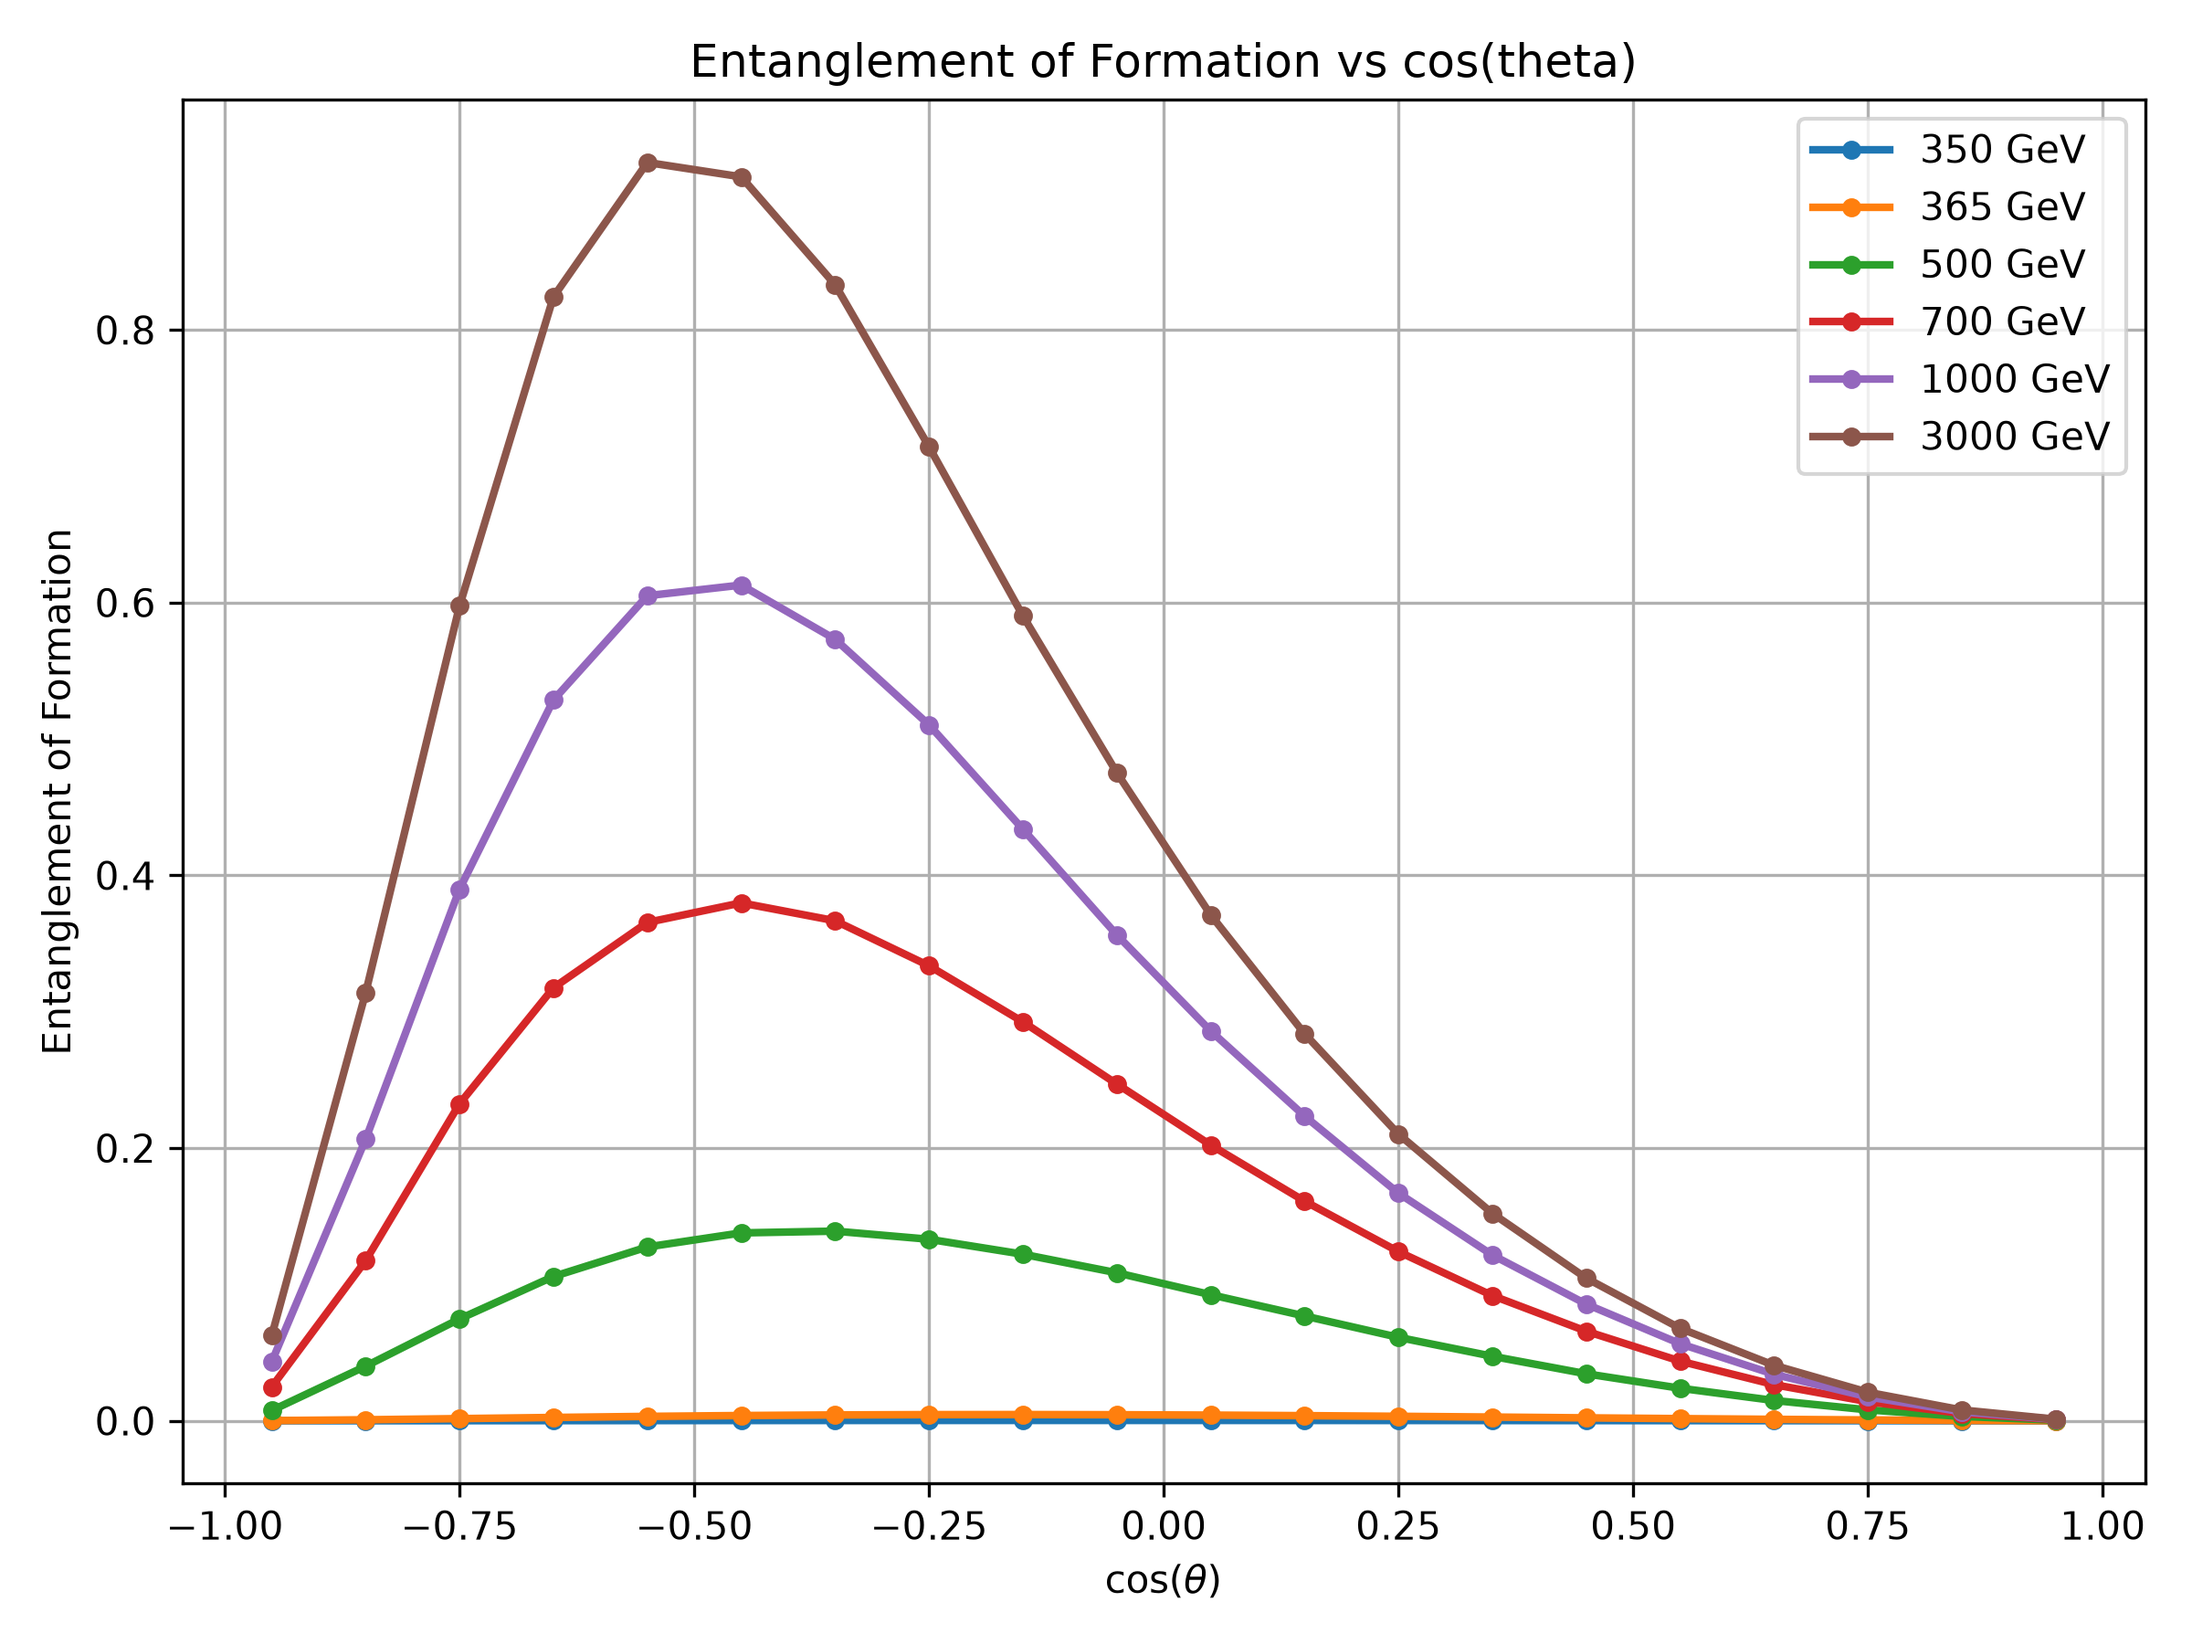
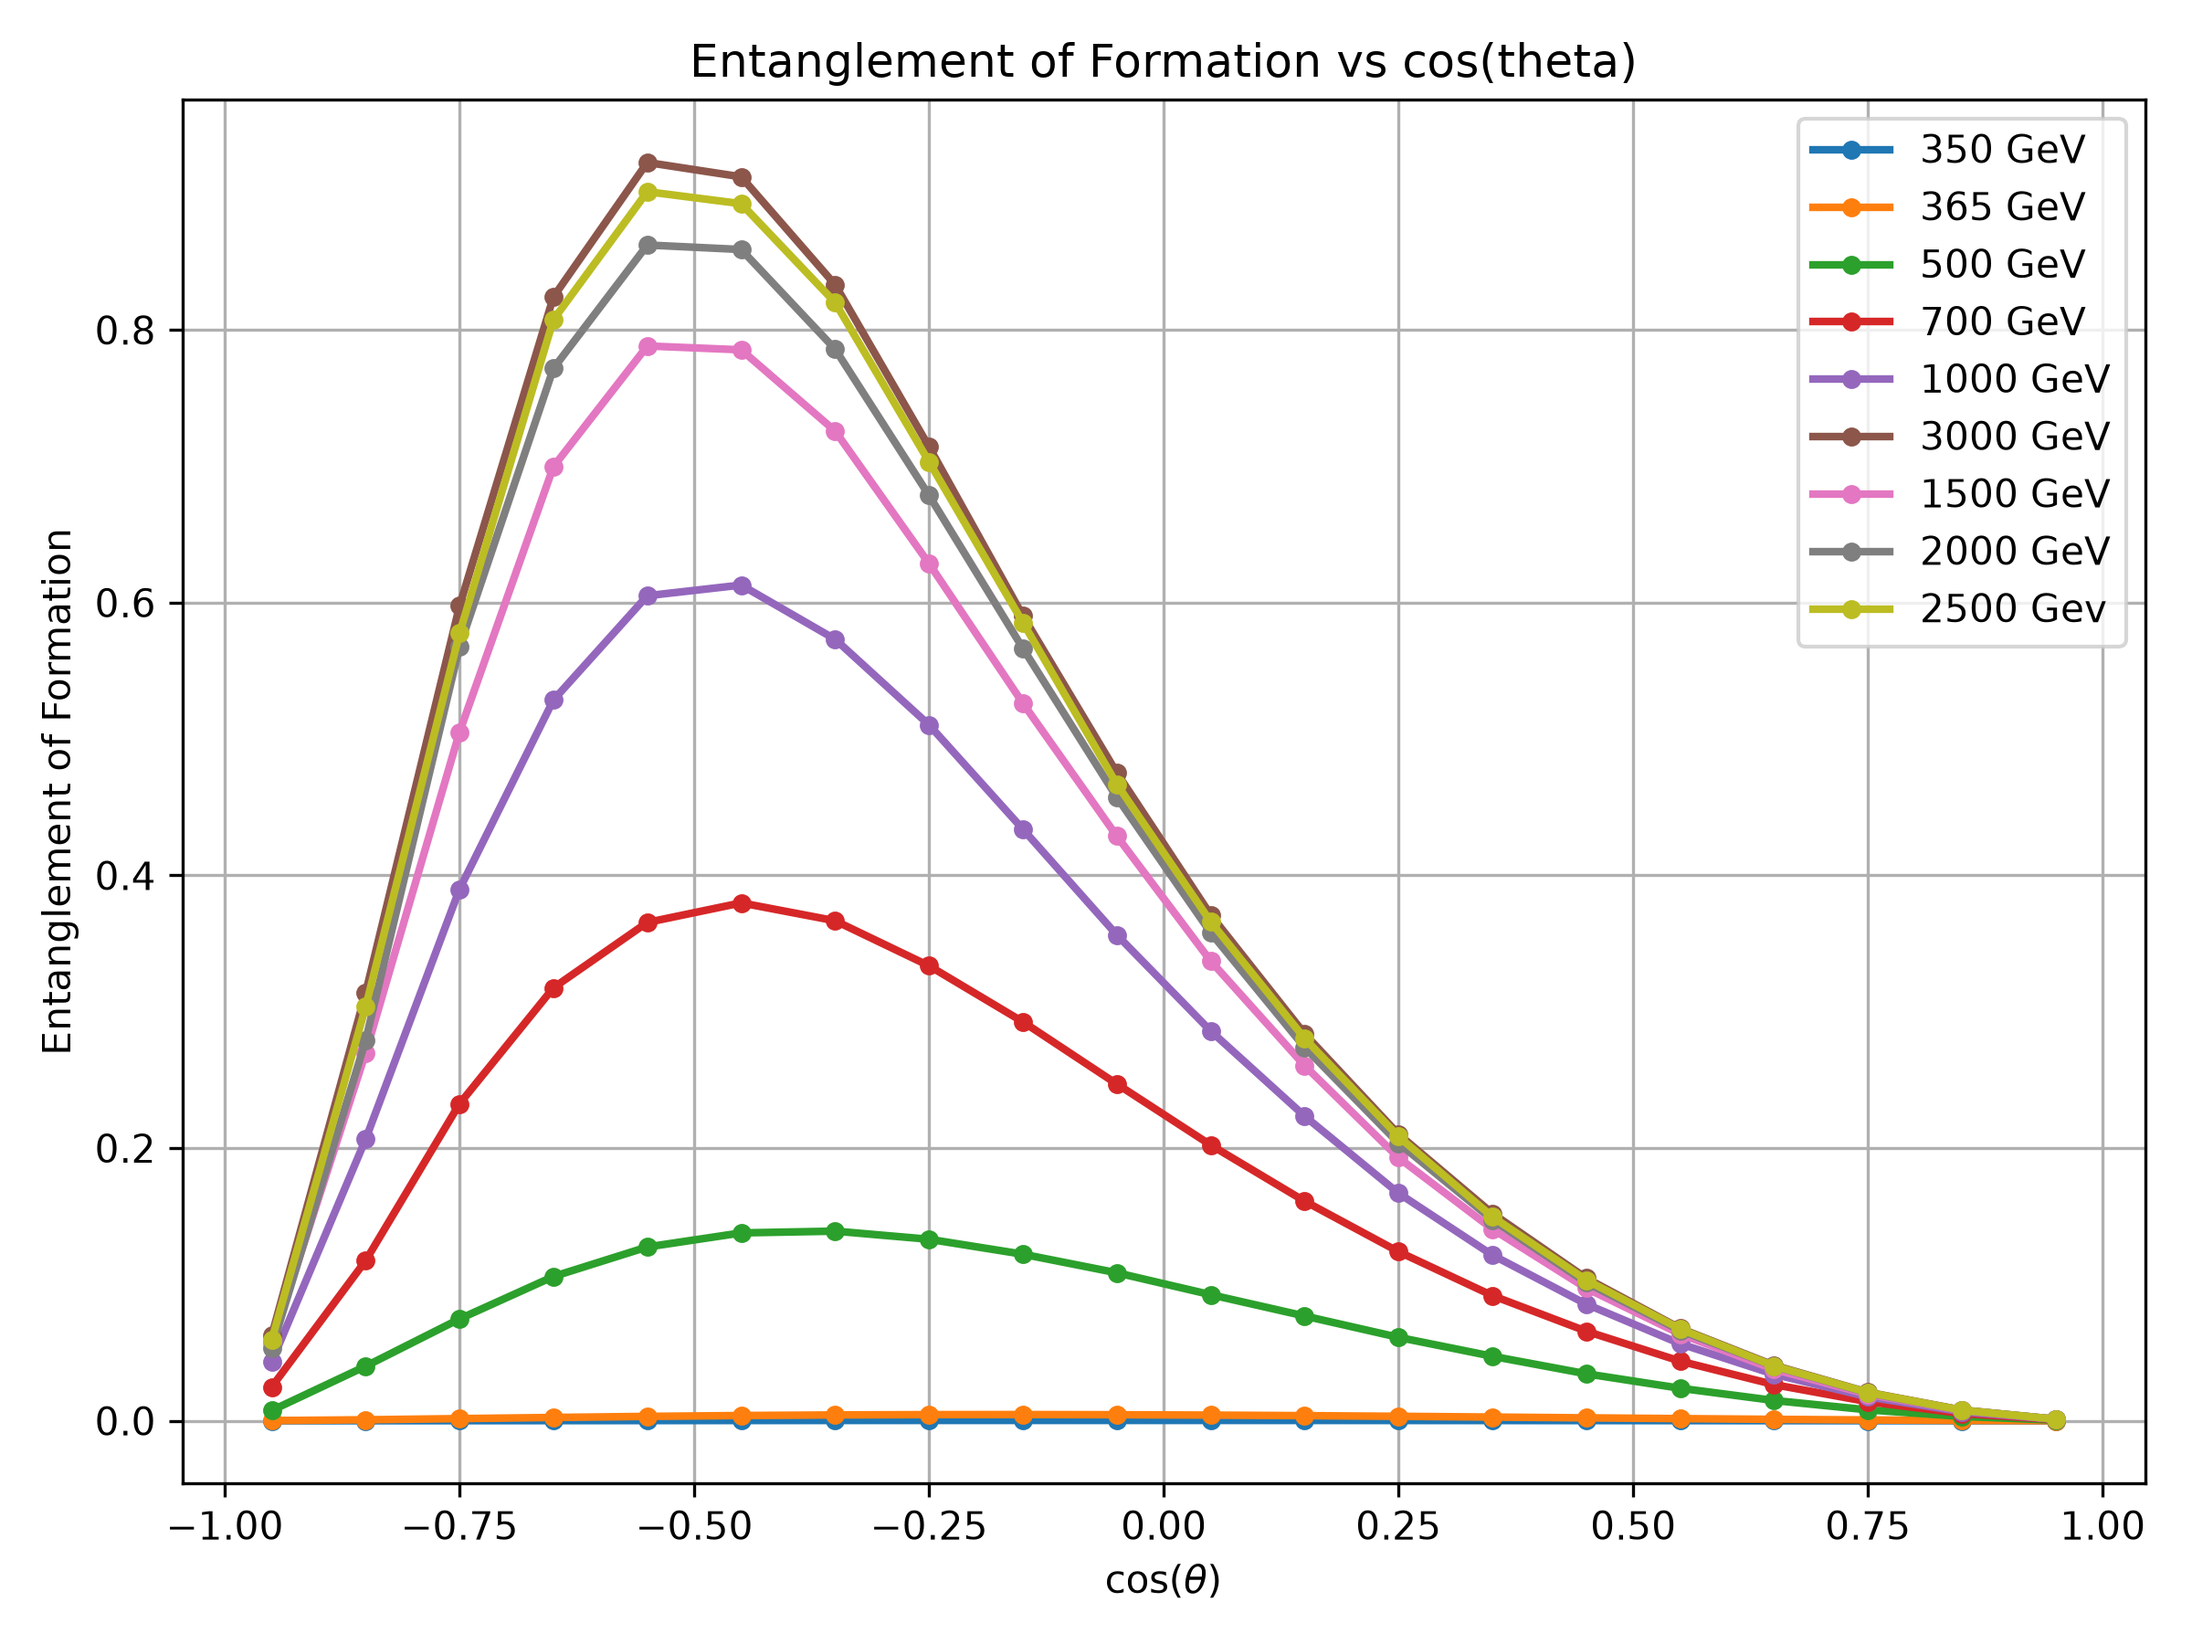
Update energy comparison with extended energy scan

diff --git a/analysis/analysis09_energy_comparison.py b/analysis/analysis09_energy_comparison.py
@@ -21,6 +21,9 @@ datasets = {
     "700 GeV": os.path.join(RESULTS_DIR, "700GeV", "event_data.csv"),
     "1000 GeV": os.path.join(RESULTS_DIR, "1000GeV", "event_data.csv"),
     "3000 GeV": os.path.join(RESULTS_DIR, "3000GeV", "event_data.csv"),
+    "1500 GeV": os.path.join(RESULTS_DIR, "1500GeV", "event_data.csv"),
+    "2000 GeV": os.path.join(RESULTS_DIR, "2000GeV", "event_data.csv"),
+    "2500 Gev": os.path.join(RESULTS_DIR, "2500GeV", "event_data.csv"),
 }
 
 
